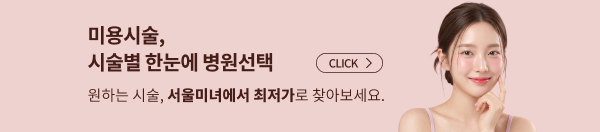
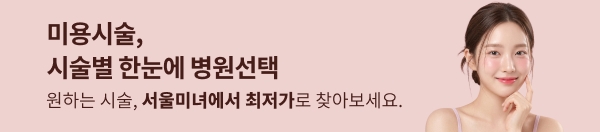
fix: 마이페이지 앱 소개 배너의 클릭 영역을 배너 전체로 확장하고 배너 이미지 교체

diff --git a/hairwang_full/gangnamunni/mypage.php b/hairwang_full/gangnamunni/mypage.php
@@ -201,11 +201,7 @@ body {
 }
 .advertisement-click-link {
     position: absolute;
-    left: 52.3%;
-    top: 39%;
-    width: 12.2%;
-    height: 22%;
-    border-radius: 999px;
+    inset: 0;
     -webkit-tap-highlight-color: transparent;
 }
 .advertisement-click-link:focus-visible {
